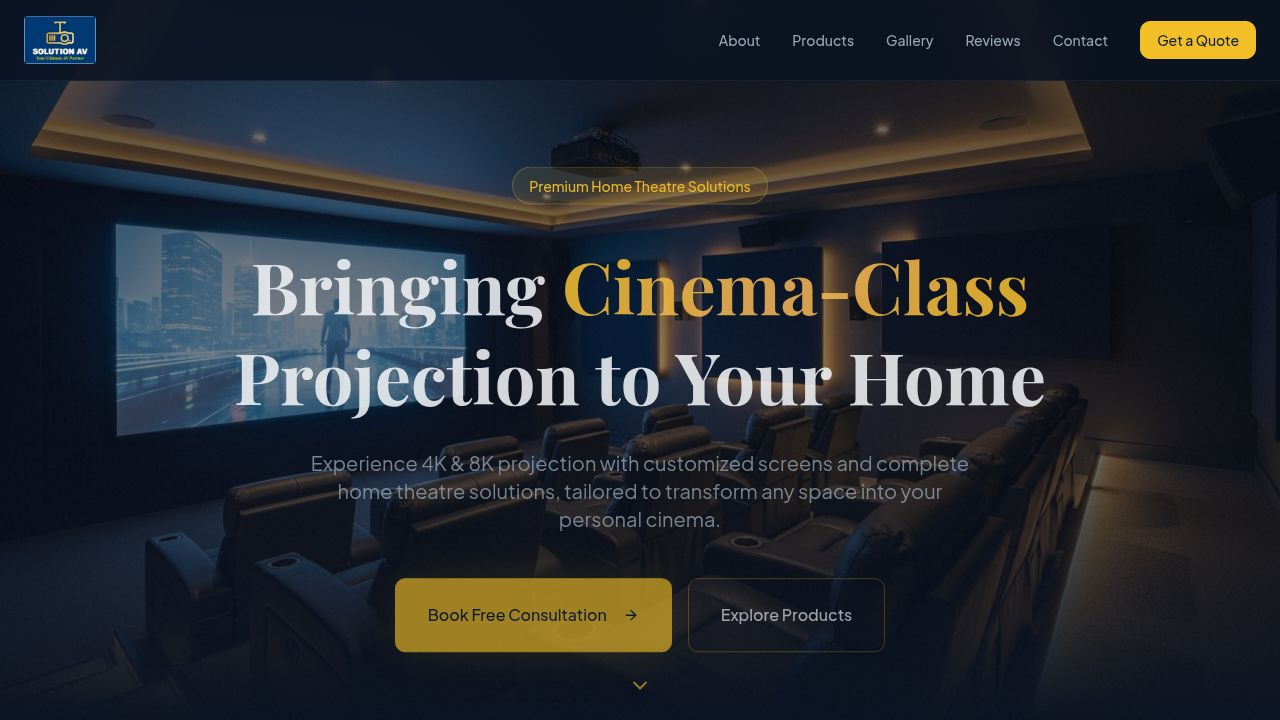
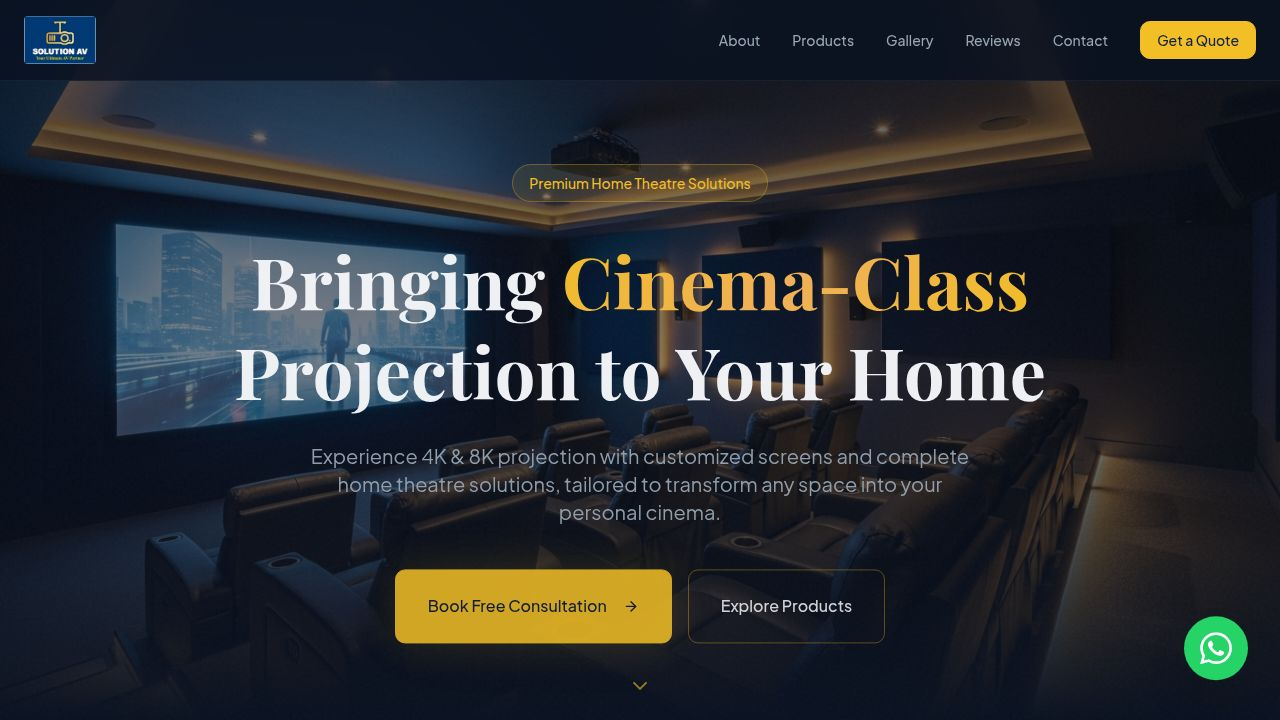
Update website to send enquiries via WhatsApp directly
Replace existing contact form functionality with a WhatsApp integration. The form now captures user details and service type, then opens a WhatsApp chat with pre-filled information. A floating WhatsApp icon is also added for easy access.

Replit-Commit-Author: Agent
Replit-Commit-Session-Id: d9c5ae49-1b1d-4bc5-ac24-08586fae4018
Replit-Commit-Checkpoint-Type: full_checkpoint
Replit-Commit-Event-Id: 195541f8-0180-43da-9b41-6d6737c8f989
Replit-Commit-Screenshot-Url: https://storage.googleapis.com/screenshot-production-us-central1/de75cb98-1f9c-4a9f-b95c-10d5231cd663/d9c5ae49-1b1d-4bc5-ac24-08586fae4018/WfLqD3O
Replit-Helium-Checkpoint-Created: true

diff --git a/client/src/pages/home.tsx b/client/src/pages/home.tsx
@@ -787,21 +787,39 @@ function Services() {
 
 function Contact() {
   const { toast } = useToast();
-  const [isSubmitting, setIsSubmitting] = useState(false);
+  const [formData, setFormData] = useState({
+    name: "",
+    phone: "",
+    email: "",
+    serviceType: "",
+    message: ""
+  });
 
   const handleSubmit = (e: React.FormEvent) => {
     e.preventDefault();
-    setIsSubmitting(true);
     
-    // Simulate successful submission
-    setTimeout(() => {
-      setIsSubmitting(false);
-      toast({
-        title: "Enquiry Sent",
-        description: "Thank you for contacting Solution AV. We will get back to you shortly.",
-      });
-      (e.target as HTMLFormElement).reset();
-    }, 1500);
+    const whatsappNumber = "919049443975"; // India format
+    const text = `*Enquiry from Solution AV Website*
+*Name:* ${formData.name}
+*Phone:* ${formData.phone}
+*Email:* ${formData.email}
+*Service:* ${formData.serviceType}
+*Requirement:* ${formData.message}`;
+
+    const encodedText = encodeURIComponent(text);
+    const whatsappUrl = `https://wa.me/${whatsappNumber}?text=${encodedText}`;
+    
+    window.open(whatsappUrl, "_blank");
+    
+    toast({
+      title: "Redirecting to WhatsApp",
+      description: "Opening WhatsApp to send your enquiry...",
+    });
+  };
+
+  const handleChange = (e: React.ChangeEvent<HTMLInputElement | HTMLTextAreaElement | HTMLSelectElement>) => {
+    const { name, value } = e.target;
+    setFormData(prev => ({ ...prev, [name]: value }));
   };
 
   return (
@@ -930,6 +948,9 @@ function Contact() {
                 <input 
                   required
                   type="text"
+                  name="name"
+                  value={formData.name}
+                  onChange={handleChange}
                   className="w-full px-4 py-3 rounded-xl bg-background border border-border focus:border-gold focus:ring-1 focus:ring-gold outline-none transition-colors text-foreground"
                   placeholder="Your name"
                   data-testid="input-name"
@@ -940,25 +961,42 @@ function Contact() {
                 <input 
                   required
                   type="tel"
+                  name="phone"
+                  value={formData.phone}
+                  onChange={handleChange}
                   className="w-full px-4 py-3 rounded-xl bg-background border border-border focus:border-gold focus:ring-1 focus:ring-gold outline-none transition-colors text-foreground"
                   placeholder="Your phone number"
                   data-testid="input-phone"
                 />
               </div>
               <div>
-                <label className="block text-sm font-medium text-muted-foreground mb-2">Email</label>
-                <input 
+                <label className="block text-sm font-medium text-muted-foreground mb-2">Service Type</label>
+                <select
                   required
-                  type="email"
-                  className="w-full px-4 py-3 rounded-xl bg-background border border-border focus:border-gold focus:ring-1 focus:ring-gold outline-none transition-colors text-foreground"
-                  placeholder="Your email"
-                  data-testid="input-email"
-                />
+                  name="serviceType"
+                  value={formData.serviceType}
+                  onChange={handleChange}
+                  className="w-full px-4 py-3 rounded-xl bg-background border border-border focus:border-gold focus:ring-1 focus:ring-gold outline-none transition-colors text-foreground appearance-none cursor-pointer"
+                  data-testid="select-service-type"
+                >
+                  <option value="" disabled>Select a service</option>
+                  <option value="Home Theatre Setup">Home Theatre Setup</option>
+                  <option value="4K / 8K Projector">4K / 8K Projector</option>
+                  <option value="Customized Projection Screen">Customized Projection Screen</option>
+                  <option value="Restaurant / Cafe AV Setup">Restaurant / Cafe AV Setup</option>
+                  <option value="Resort / Hotel AV Setup">Resort / Hotel AV Setup</option>
+                  <option value="Conference Room AV">Conference Room AV</option>
+                  <option value="Interactive Panel for School">Interactive Panel for School</option>
+                  <option value="Repair / Service / AMC">Repair / Service / AMC</option>
+                </select>
               </div>
               <div>
                 <label className="block text-sm font-medium text-muted-foreground mb-2">Message</label>
                 <textarea 
                   required
+                  name="message"
+                  value={formData.message}
+                  onChange={handleChange}
                   rows={4}
                   className="w-full px-4 py-3 rounded-xl bg-background border border-border focus:border-gold focus:ring-1 focus:ring-gold outline-none transition-colors text-foreground resize-none"
                   placeholder="Tell us about your requirements..."
@@ -967,12 +1005,11 @@ function Contact() {
               </div>
               <Button 
                 type="submit"
-                disabled={isSubmitting}
-                className="w-full bg-gold text-gold-foreground hover:bg-gold/90 py-6 text-base glow-gold"
-                data-testid="button-submit-form"
+                className="w-full bg-[#25D366] text-white hover:bg-[#128C7E] py-6 text-base glow-gold border-none"
+                data-testid="button-submit-whatsapp"
               >
-                {isSubmitting ? "Sending..." : "Send Message"}
-                {!isSubmitting && <ArrowRight className="ml-2 w-5 h-5" />}
+                Send Enquiry on WhatsApp
+                <ArrowRight className="ml-2 w-5 h-5" />
               </Button>
             </form>
           </motion.div>
@@ -1023,6 +1060,44 @@ function Footer() {
   );
 }
 
+function WhatsAppFloating() {
+  const whatsappNumber = "919049443975";
+  
+  return (
+    <motion.a
+      href={`https://wa.me/${whatsappNumber}`}
+      target="_blank"
+      rel="noopener noreferrer"
+      className="fixed bottom-8 right-8 z-[60] bg-[#25D366] text-white p-4 rounded-full shadow-2xl flex items-center justify-center"
+      initial={{ scale: 0, opacity: 0 }}
+      animate={{ 
+        scale: 1, 
+        opacity: 1,
+        y: [0, -10, 0]
+      }}
+      transition={{
+        scale: { duration: 0.3 },
+        opacity: { duration: 0.3 },
+        y: {
+          duration: 3,
+          repeat: Infinity,
+          ease: "easeInOut"
+        }
+      }}
+      whileHover={{ scale: 1.1 }}
+      data-testid="button-floating-whatsapp"
+    >
+      <svg 
+        viewBox="0 0 24 24" 
+        className="w-8 h-8 fill-current"
+        xmlns="http://www.w3.org/2000/svg"
+      >
+        <path d="M17.472 14.382c-.297-.149-1.758-.867-2.03-.967-.273-.099-.471-.148-.67.15-.197.297-.767.966-.94 1.164-.173.199-.347.223-.644.075-.297-.15-1.255-.463-2.39-1.475-.883-.788-1.48-1.761-1.653-2.059-.173-.297-.018-.458.13-.606.134-.133.298-.347.446-.52.149-.174.198-.298.298-.497.099-.198.05-.371-.025-.52-.075-.149-.669-1.612-.916-2.207-.242-.579-.487-.5-.669-.51-.173-.008-.371-.01-.57-.01-.198 0-.52.074-.792.372-.272.297-1.04 1.016-1.04 2.479 0 1.462 1.065 2.875 1.213 3.074.149.198 2.096 3.2 5.077 4.487.709.306 1.262.489 1.694.625.712.227 1.36.195 1.871.118.571-.085 1.758-.719 2.006-1.413.248-.694.248-1.289.173-1.413-.074-.124-.272-.198-.57-.347m-5.421 7.403h-.004a9.87 9.87 0 01-5.031-1.378l-.361-.214-3.741.982.998-3.648-.235-.374a9.86 9.86 0 01-1.51-5.26c.001-5.45 4.436-9.884 9.888-9.884 2.64 0 5.122 1.03 6.988 2.898a9.825 9.825 0 012.893 6.994c-.003 5.45-4.437 9.884-9.885 9.884m8.413-18.297A11.815 11.815 0 0012.05 0C5.495 0 .16 5.335.157 11.892c0 2.096.547 4.142 1.588 5.945L.057 24l6.305-1.654a11.882 11.882 0 005.683 1.448h.005c6.554 0 11.89-5.335 11.893-11.893a11.821 11.821 0 00-3.48-8.413z"/>
+      </svg>
+    </motion.a>
+  );
+}
+
 export default function HomePage() {
   return (
     <div className="min-h-screen bg-background">
@@ -1036,6 +1111,7 @@ export default function HomePage() {
       <Services />
       <Contact />
       <Footer />
+      <WhatsAppFloating />
     </div>
   );
 }
